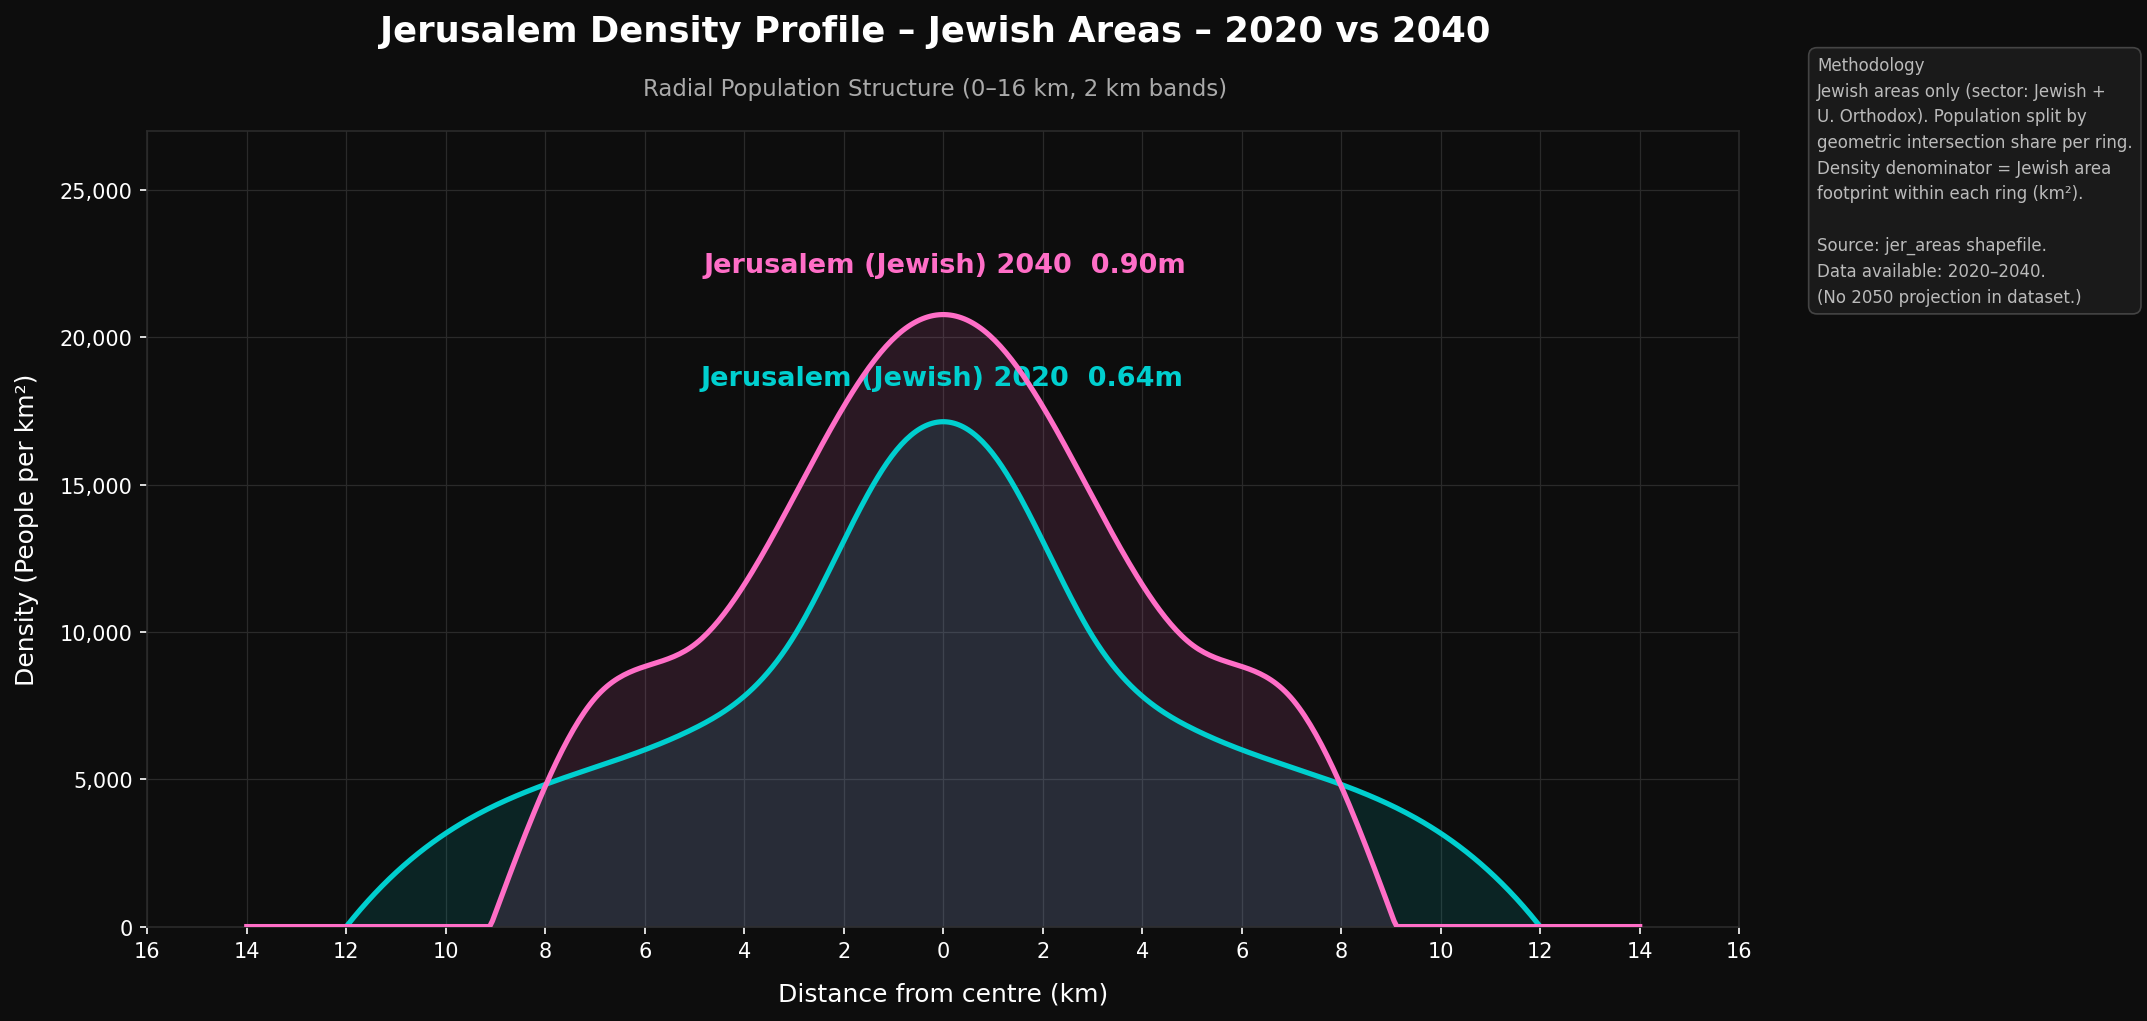
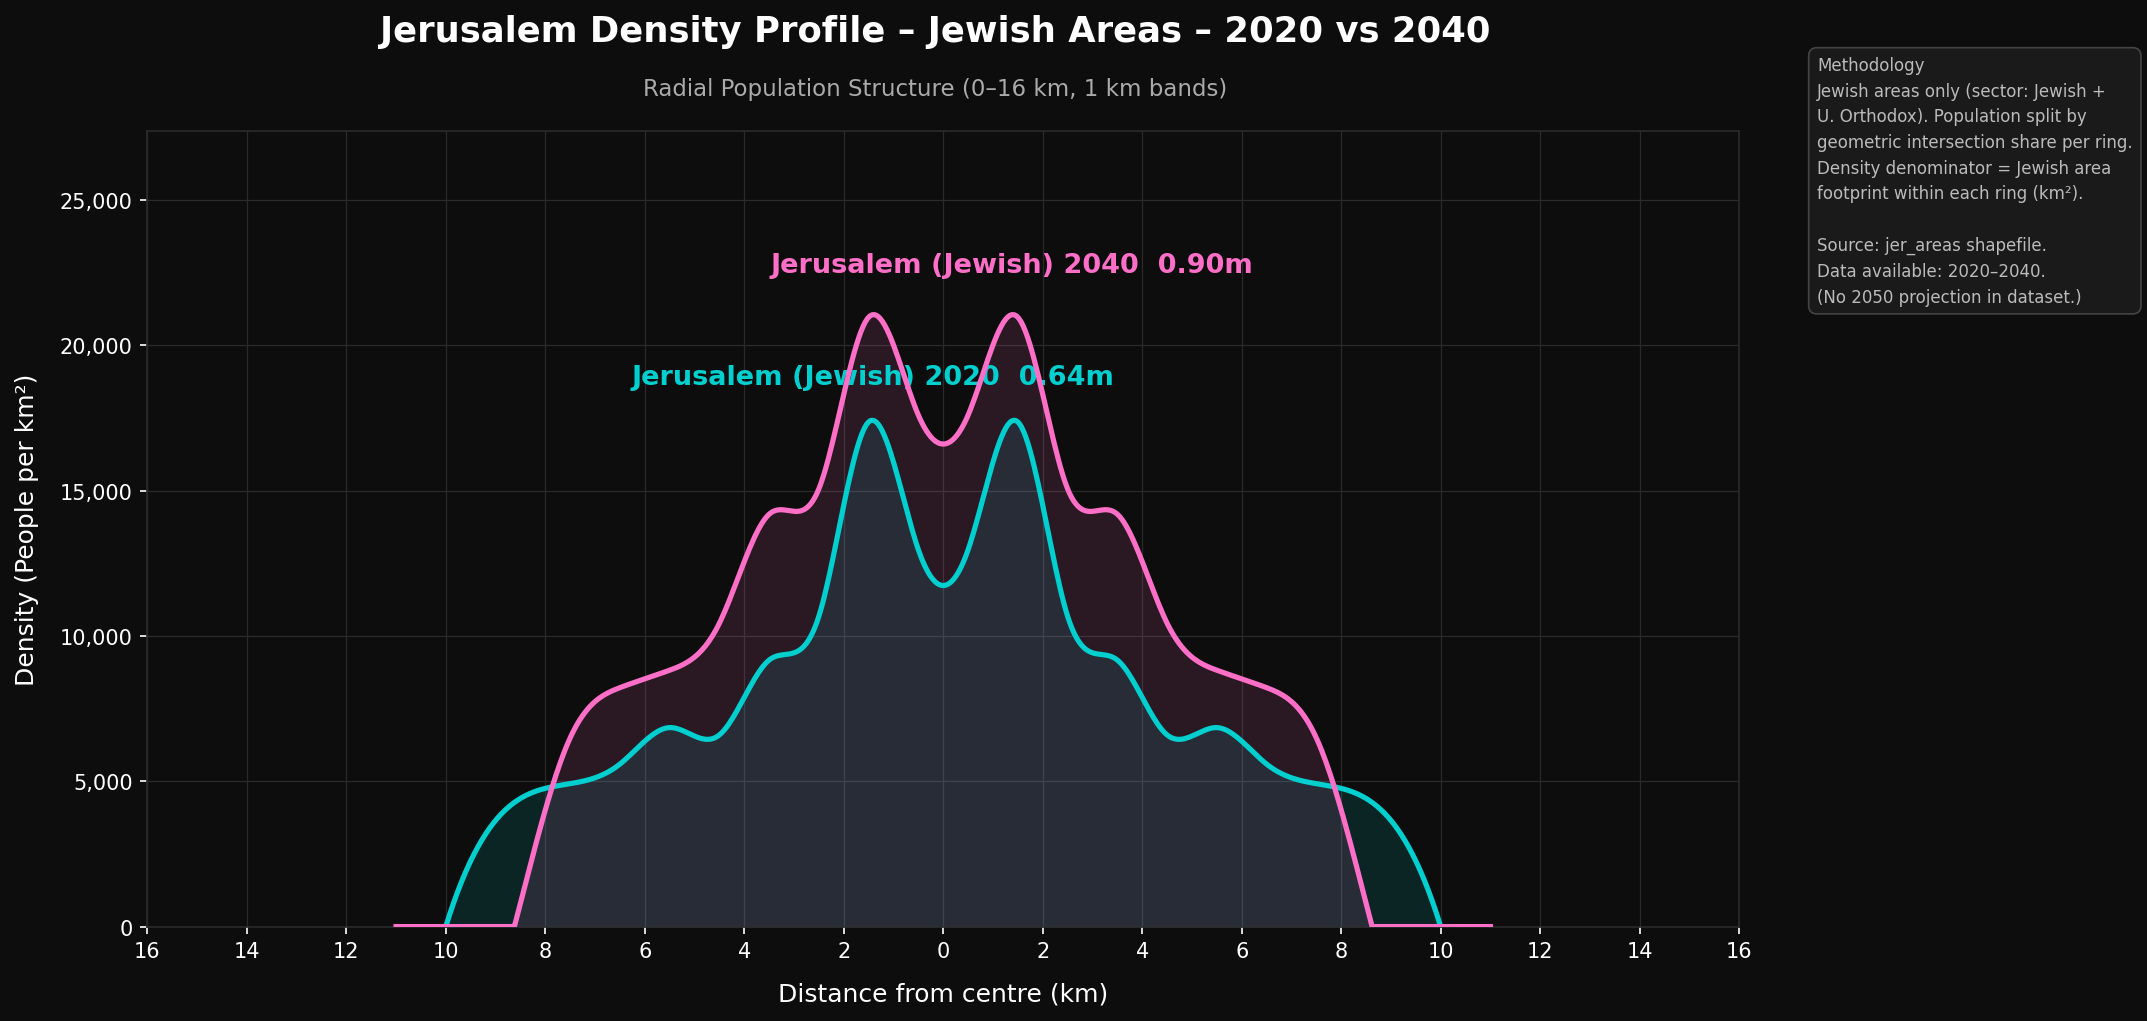
Switch all density profiles and maps to 1 km rings
Profile scripts: RING_WIDTH 2000→1000, N_RINGS 8→16, subtitle updated.
Maps: reference circles now shown at every 1 km up to 8 km.
Finer granularity reveals more spatial structure in the profiles
(e.g. the Haredi peak and sub-peaks are now clearly resolved).

https://claude.ai/code/session_01Wkc3oYCRGuMqTiP78fZipH

diff --git a/population_figure/spatial_maps.py b/population_figure/spatial_maps.py
@@ -104,12 +104,11 @@ colors_d = [SPECTRAL_CMAP(norm_d(v)) for v in areas["dist_km"]]
 areas_wgs.plot(ax=ax1, color=colors_d, edgecolor=BORDER_COLOR, linewidth=0.3)
 plot_star(ax1, centre_wgs)
 
-# Ring circles at 2, 4, 6, 8 km for reference
-for ring_km in [2, 4, 6, 8]:
+# Ring circles at 1 km intervals for reference
+for ring_km in [1, 2, 3, 4, 5, 6, 7, 8]:
     ring_buf = centre_proj.buffer(ring_km * 1000)
     ring_gdf = gpd.GeoDataFrame(geometry=[ring_buf], crs=areas.crs).to_crs("EPSG:4326")
     ring_gdf.boundary.plot(ax=ax1, color="#555555", linewidth=0.6, linestyle="--")
-    # Label
     ring_pt = ring_gdf.geometry.iloc[0].exterior.interpolate(0.25, normalized=True)
     ax1.text(ring_pt.x, ring_pt.y, f"{ring_km} km",
              color="#888888", fontsize=7, ha="left", va="bottom")
@@ -150,7 +149,7 @@ areas_wgs.plot(ax=ax2, color=colors_ld, edgecolor=BORDER_COLOR, linewidth=0.3)
 plot_star(ax2, centre_wgs)
 
 # Ring circles at 2, 4, 6, 8 km (same as distance map)
-for ring_km in [2, 4, 6, 8]:
+for ring_km in [1, 2, 3, 4, 5, 6, 7, 8]:
     ring_buf = centre_proj.buffer(ring_km * 1000)
     ring_gdf = gpd.GeoDataFrame(geometry=[ring_buf], crs=areas.crs).to_crs("EPSG:4326")
     ring_gdf.boundary.plot(ax=ax2, color="#555555", linewidth=0.6, linestyle="--")
@@ -201,7 +200,7 @@ colors_le = np.array([
 areas_wgs.plot(ax=ax3, color=colors_le, edgecolor=BORDER_COLOR, linewidth=0.3)
 plot_star(ax3, centre_wgs)
 
-for ring_km in [2, 4, 6, 8]:
+for ring_km in [1, 2, 3, 4, 5, 6, 7, 8]:
     ring_buf = centre_proj.buffer(ring_km * 1000)
     ring_gdf = gpd.GeoDataFrame(geometry=[ring_buf], crs=areas.crs).to_crs("EPSG:4326")
     ring_gdf.boundary.plot(ax=ax3, color="#555555", linewidth=0.6, linestyle="--")

diff --git a/population_figure/density_profile.py b/population_figure/density_profile.py
@@ -2,7 +2,7 @@
 """
 density_profile.py
 Radial population density profile for Jerusalem, centered on Kikar Zion.
-Replicates the style of "European Density Profiles" (radial 2 km rings).
+Replicates the style of "European Density Profiles" (radial 1 km rings).
 
 Generates one figure per year in YEARS.
 """
@@ -23,8 +23,8 @@ SHP_PATH = os.path.join(HERE, "..", "jer_areas.shp")
 # ── Fixed parameters ──────────────────────────────────────────────────────────
 KIKAR_ZION_LON = 35.2232
 KIKAR_ZION_LAT = 31.7785
-RING_WIDTH = 2_000   # metres (2 km)
-N_RINGS    = 8       # bands 0-2, 2-4, …, 14-16 km
+RING_WIDTH = 1_000   # metres (1 km)
+N_RINGS    = 16       # bands 0-1, 1-2, …, 15-16 km
 MAX_DIST   = RING_WIDTH * N_RINGS   # 16 km
 YEARS      = [2020, 2025, 2040]
 
@@ -134,7 +134,7 @@ def make_figure(year):
 
     fig.text(0.45, 0.97, f"Jerusalem Density Profile – {year}",
              color=TEXT_COLOR, fontsize=18, fontweight="bold", ha="center", va="top")
-    fig.text(0.45, 0.91, "Radial Population Structure (0–16 km, 2 km bands)",
+    fig.text(0.45, 0.91, "Radial Population Structure (0–16 km, 1 km bands)",
              color="#AAAAAA", fontsize=11, ha="center", va="top")
 
     methodology = (

diff --git a/population_figure/haredi_vs_jewish_profile.py b/population_figure/haredi_vs_jewish_profile.py
@@ -21,8 +21,8 @@ OUT_PATH = os.path.join(HERE, "jerusalem_density_profile_haredi_vs_jewish.png")
 
 KIKAR_ZION_LON = 35.2232
 KIKAR_ZION_LAT = 31.7785
-RING_WIDTH = 2_000
-N_RINGS    = 8
+RING_WIDTH = 1_000
+N_RINGS    = 16
 MAX_DIST   = RING_WIDTH * N_RINGS
 YEAR       = 2025
 POP_COL    = f"pop_{YEAR}"
@@ -135,7 +135,7 @@ ax.set_ylabel("Density (People per km²)",       color=TEXT_COLOR, fontsize=12, 
 fig.text(0.45, 0.97, f"Jerusalem – Haredi vs Non-Haredi Jewish Density Profile ({YEAR})",
          color=TEXT_COLOR, fontsize=16, fontweight="bold", ha="center", va="top")
 fig.text(0.45, 0.91,
-         "Radial Population Structure (0–16 km, 2 km bands)  ·  Left = Haredi  |  Right = Non-Haredi Jewish",
+         "Radial Population Structure (0–16 km, 1 km bands)  ·  Left = Haredi  |  Right = Non-Haredi Jewish",
          color="#AAAAAA", fontsize=10, ha="center", va="top")
 
 note = (

diff --git a/population_figure/asymmetric_profile.py b/population_figure/asymmetric_profile.py
@@ -23,8 +23,8 @@ OUT_PATH = os.path.join(HERE, "jerusalem_density_profile_jews_vs_arabs.png")
 
 KIKAR_ZION_LON = 35.2232
 KIKAR_ZION_LAT = 31.7785
-RING_WIDTH = 2_000
-N_RINGS    = 8
+RING_WIDTH = 1_000
+N_RINGS    = 16
 MAX_DIST   = RING_WIDTH * N_RINGS
 YEAR       = 2025
 POP_COL    = f"pop_{YEAR}"
@@ -158,7 +158,7 @@ ax.set_ylabel("Density (People per km²)",       color=TEXT_COLOR, fontsize=12, 
 
 fig.text(0.45, 0.97, f"Jerusalem – Jewish vs Arab Density Profile ({YEAR})",
          color=TEXT_COLOR, fontsize=17, fontweight="bold", ha="center", va="top")
-fig.text(0.45, 0.91, "Radial Population Structure (0–16 km, 2 km bands)  ·  Left = Jewish  |  Right = Arab",
+fig.text(0.45, 0.91, "Radial Population Structure (0–16 km, 1 km bands)  ·  Left = Jewish  |  Right = Arab",
          color="#AAAAAA", fontsize=10, ha="center", va="top")
 
 note = (

diff --git a/population_figure/pop_vs_emp_profile.py b/population_figure/pop_vs_emp_profile.py
@@ -20,8 +20,8 @@ OUT_PATH = os.path.join(HERE, "jerusalem_density_profile_pop_vs_emp.png")
 
 KIKAR_ZION_LON = 35.2232
 KIKAR_ZION_LAT = 31.7785
-RING_WIDTH = 2_000
-N_RINGS    = 8
+RING_WIDTH = 1_000
+N_RINGS    = 16
 MAX_DIST   = RING_WIDTH * N_RINGS
 YEAR       = 2025
 
@@ -136,7 +136,7 @@ ax.set_ylabel("Density (per km²)",             color=TEXT_COLOR, fontsize=12, l
 fig.text(0.45, 0.97, f"Jerusalem – Population vs Employment Density ({YEAR})",
          color=TEXT_COLOR, fontsize=17, fontweight="bold", ha="center", va="top")
 fig.text(0.45, 0.91,
-         "Radial Structure (0–16 km, 2 km bands)  ·  Left = Population  |  Right = Employment",
+         "Radial Structure (0–16 km, 1 km bands)  ·  Left = Population  |  Right = Employment",
          color="#AAAAAA", fontsize=10, ha="center", va="top")
 
 note = (

diff --git a/population_figure/combined_profile_jewish.py b/population_figure/combined_profile_jewish.py
@@ -22,8 +22,8 @@ OUT_PATH = os.path.join(HERE, "jerusalem_density_profile_2020_2040_jewish.png")
 
 KIKAR_ZION_LON = 35.2232
 KIKAR_ZION_LAT = 31.7785
-RING_WIDTH = 2_000
-N_RINGS    = 8
+RING_WIDTH = 1_000
+N_RINGS    = 16
 MAX_DIST   = RING_WIDTH * N_RINGS
 
 JEWISH_SECTORS = {"Jewish", "U. Orthodox"}
@@ -145,7 +145,7 @@ ax.set_ylabel("Density (People per km²)",  color=TEXT_COLOR, fontsize=12, label
 
 fig.text(0.45, 0.97, "Jerusalem Density Profile – Jewish Areas – 2020 vs 2040",
          color=TEXT_COLOR, fontsize=17, fontweight="bold", ha="center", va="top")
-fig.text(0.45, 0.91, "Radial Population Structure (0–16 km, 2 km bands)",
+fig.text(0.45, 0.91, "Radial Population Structure (0–16 km, 1 km bands)",
          color="#AAAAAA", fontsize=11, ha="center", va="top")
 
 note = (

diff --git a/population_figure/combined_profile.py b/population_figure/combined_profile.py
@@ -20,8 +20,8 @@ OUT_PATH = os.path.join(HERE, "jerusalem_density_profile_2020_2040.png")
 
 KIKAR_ZION_LON = 35.2232
 KIKAR_ZION_LAT = 31.7785
-RING_WIDTH = 2_000
-N_RINGS    = 8
+RING_WIDTH = 1_000
+N_RINGS    = 16
 MAX_DIST   = RING_WIDTH * N_RINGS
 
 BG_COLOR   = "#0d0d0d"
@@ -126,7 +126,7 @@ ax.set_ylabel("Density (People per km²)",  color=TEXT_COLOR, fontsize=12, label
 
 fig.text(0.45, 0.97, "Jerusalem Density Profile – 2020 vs 2040",
          color=TEXT_COLOR, fontsize=18, fontweight="bold", ha="center", va="top")
-fig.text(0.45, 0.91, "Radial Population Structure (0–16 km, 2 km bands)",
+fig.text(0.45, 0.91, "Radial Population Structure (0–16 km, 1 km bands)",
          color="#AAAAAA", fontsize=11, ha="center", va="top")
 
 note = (
